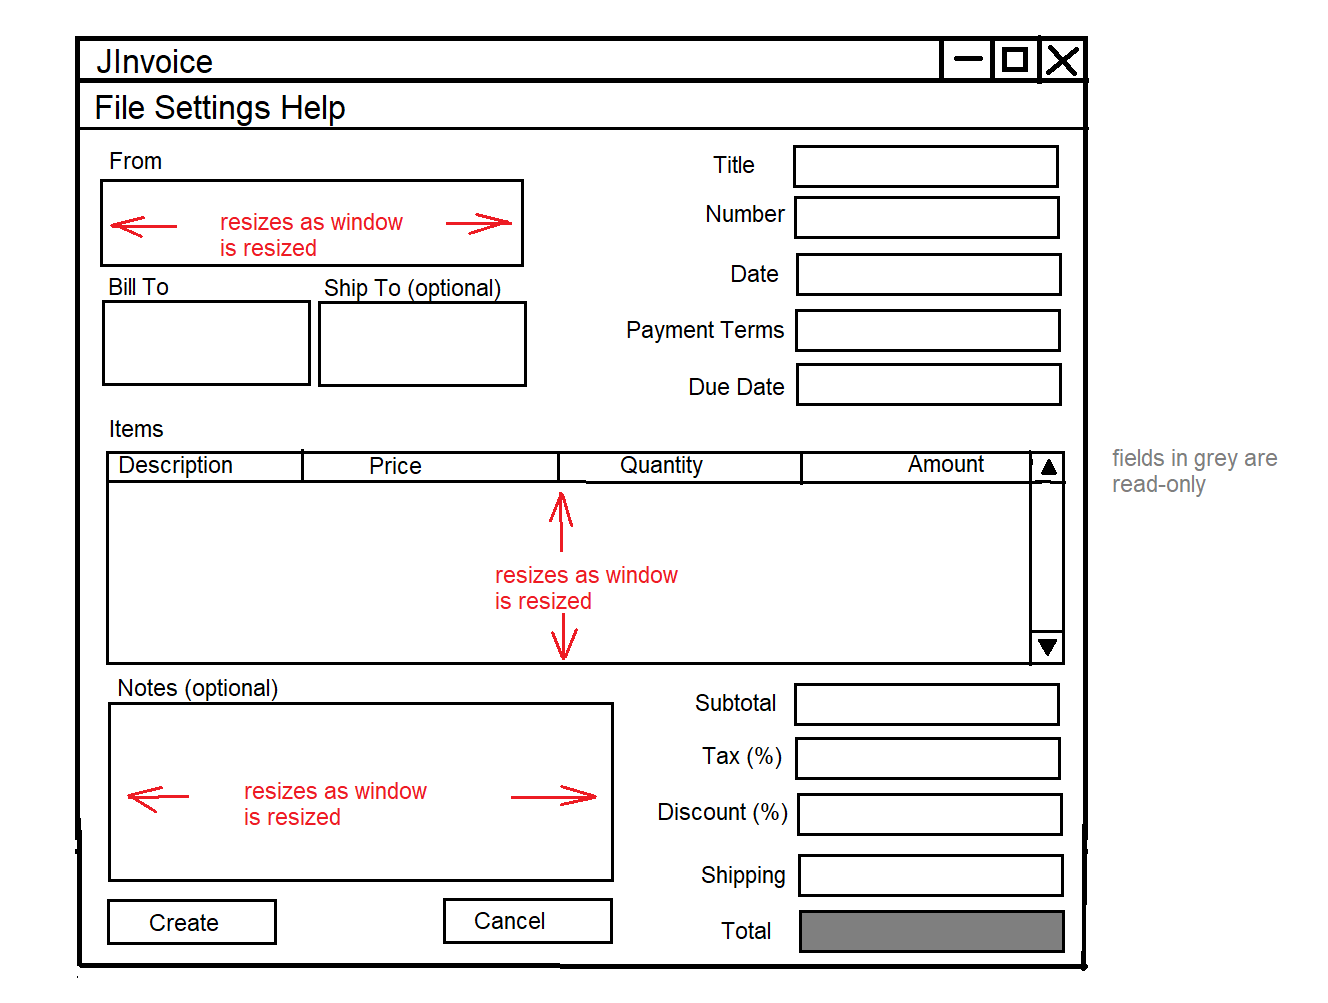
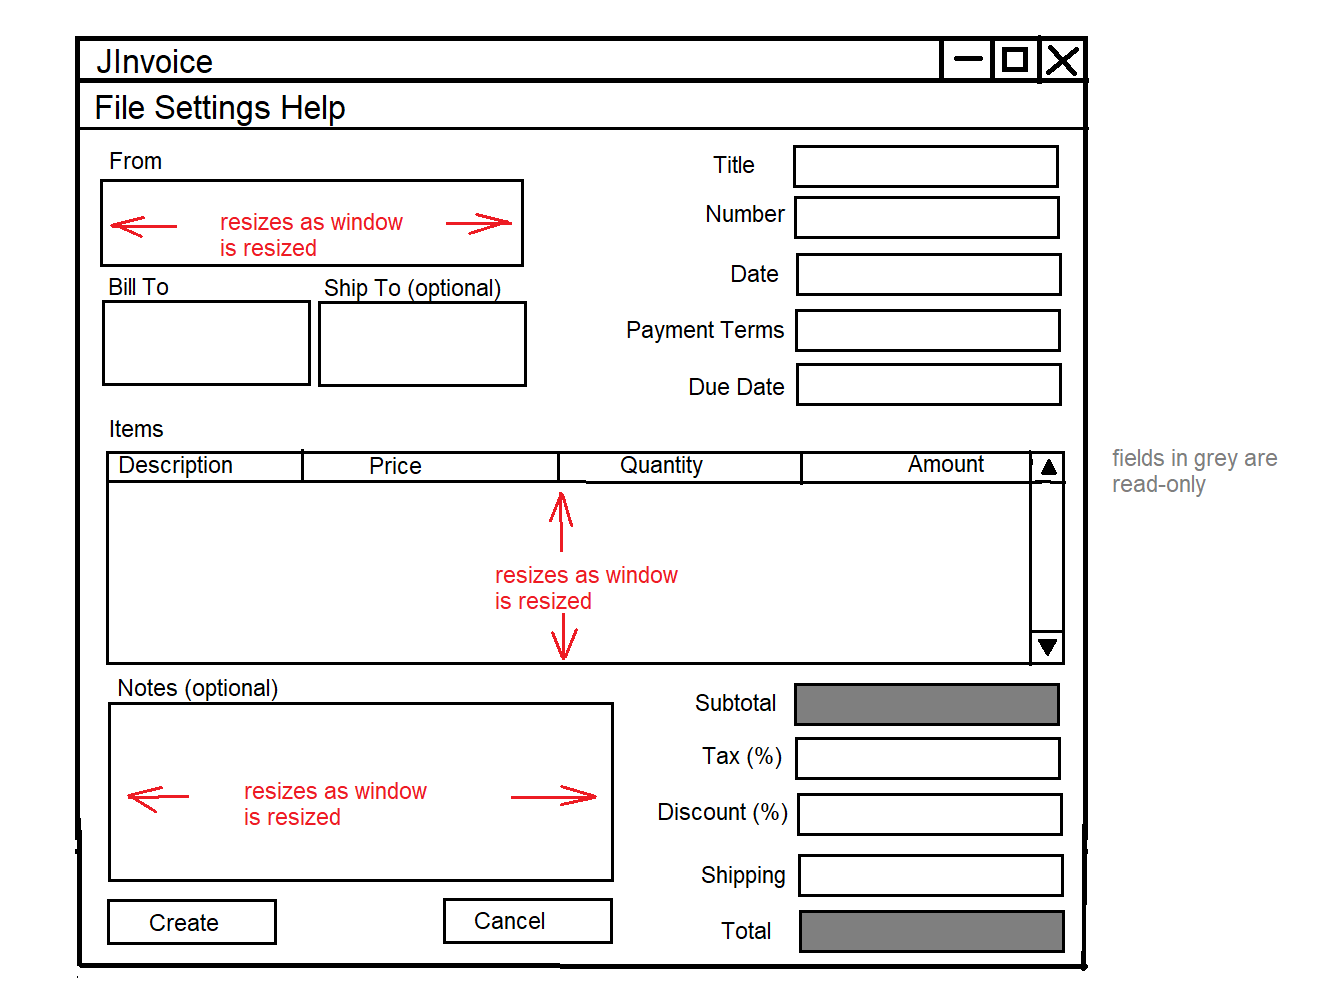
complete first pass at main window layout

Changed region(s): [[0.5866, 0.68, 0.8027, 0.7418]]

diff --git a/src/src/main/java/com/jinvoice/view/MainWindow.java b/src/src/main/java/com/jinvoice/view/MainWindow.java
@@ -17,12 +17,12 @@ public class MainWindow extends JFrame
 	private final JMenuItem _fileExitMenuItem = new JMenuItem("Exit");
 	private final JMenu _helpMenu = new JMenu("Help");
 	private final JMenuItem _helpAboutMenuItem = new JMenuItem("About");
+
+	private final NorthPanel _northPanel = new NorthPanel();
 	
-	private final ToPanel _toPanel = new ToPanel();
-	private final DetailsPanel _detailsPanel = new DetailsPanel();
 	private final ItemsTablePanel _itemsTablePanel = new ItemsTablePanel();
-	private final TotalsPanel _totalsPanel = new TotalsPanel();
-	private final NotesAndButtonsPanel _notesAndButtonsPanel = new NotesAndButtonsPanel();
+
+	private final SouthPanel _southPanel = new SouthPanel(this._itemsTablePanel.getButtonSize());
 	
 	/*
 	 * Constructor.
@@ -44,74 +44,130 @@ public class MainWindow extends JFrame
 		{
 			JOptionPane.showMessageDialog(this, "Simple invoice generator. Creates invoices in Excel format. \n\n" + this.buildAttributionText(attributions), "About " + title, JOptionPane.INFORMATION_MESSAGE);
 		}));
-		
-		this._mainPanel.setLayout(new GridBagLayout());
+
+		this._mainPanel.setLayout(new BorderLayout());
 		
 		// add components
-		
-		GridBagConstraints c1 = new GridBagConstraints();
-		c1.fill = GridBagConstraints.BOTH;
-		c1.gridx = 0;
-		c1.gridy = 0;
-		c1.gridwidth = 2;
-		c1.gridheight = 1;
-		c1.weightx = 1; 
-		c1.weighty = 1; 
-		c1.insets = new Insets(2,2,2,2);
-		this._mainPanel.add(this._toPanel, c1);
-		
-		GridBagConstraints c2 = new GridBagConstraints();
-		c2.fill = GridBagConstraints.BOTH;
-		c2.gridx = 2;
-		c2.gridy = 0;
-		c1.gridwidth = 1;
-		c1.gridheight = 1;
-		c2.weightx = 0.5; 
-		c2.weighty = 0; 
-		c2.insets = new Insets(2,2,2,2);
-		this._mainPanel.add(this._detailsPanel, c2);
-		
-		GridBagConstraints c3 = new GridBagConstraints();
-		c3.fill = GridBagConstraints.BOTH;
-		c3.gridx = 0;
-		c3.gridy = 1;
-		c3.gridwidth = 3;
-		c3.gridheight = 1;
-		c2.weightx = 0; 
-		c2.weighty = 1; 
-		c2.insets = new Insets(2,2,2,2);
-		this._mainPanel.add(this._itemsTablePanel, c3);
-		
-		GridBagConstraints c4 = new GridBagConstraints();
-		c4.fill = GridBagConstraints.BOTH;
-		c4.gridx = 0;
-		c4.gridy = 2;
-		c4.gridwidth = 2;
-		c4.gridheight = 1;
-		c4.weightx = 0; 
-		c4.weighty = 1; 
-		c4.insets = new Insets(2,2,2,2);
-		this._mainPanel.add(this._notesAndButtonsPanel, c4);
-		
-		GridBagConstraints c5 = new GridBagConstraints();
-		c5.fill = GridBagConstraints.BOTH;
-		c5.gridx = 2;
-		c5.gridy = 2;
-		c5.gridwidth = 1;
-		c5.gridheight = 1;
-		c5.weightx = 0.5; 
-		c5.weighty = 0; 
-		c5.insets = new Insets(2,2,2,2);
-		this._mainPanel.add(this._totalsPanel, c5);
-		
+		this._mainPanel.add(this._northPanel, BorderLayout.NORTH);
+		this._mainPanel.add(this._itemsTablePanel, BorderLayout.CENTER);
+		this._mainPanel.add(this._southPanel, BorderLayout.SOUTH);
+
 		this.add(this._mainPanel);
 	}//ctor
 	
+	class NorthPanel extends JPanel
+	{
+		private final ToPanel _toPanel = new ToPanel();
+		private final DetailsPanel _detailsPanel = new DetailsPanel();
+		
+		public NorthPanel()
+		{
+			this.setLayout(new GridBagLayout());
+			
+			GridBagConstraints c1 = new GridBagConstraints();
+			c1.fill = GridBagConstraints.BOTH;
+			c1.gridx = 0;
+			c1.gridy = 0;
+			c1.gridwidth = 2;
+			c1.gridheight = 1;
+			c1.weightx = 1; 
+			c1.weighty = 1; 
+			c1.insets = new Insets(2,2,2,2);
+			this.add(this._toPanel, c1);
+			
+			GridBagConstraints c2 = new GridBagConstraints();
+			c2.fill = GridBagConstraints.BOTH;
+			c2.gridx = 2;
+			c2.gridy = 0;
+			c2.gridwidth = 2;
+			c2.gridheight = 1;
+			c2.weightx = 0.5; 
+			c2.weighty = 0; 
+			c2.insets = new Insets(2,2,2,2);
+			this.add(this._detailsPanel, c2);
+		}
+	}
+	
+	class SouthPanel extends JPanel
+	{
+		private final TotalsPanel _totalsPanel = new TotalsPanel();
+		private final NotesAndButtonsPanel _notesAndButtonsPanel;
+		
+		public SouthPanel(Dimension btnDim)
+		{
+			this.setLayout(new GridBagLayout());
+			
+			this._notesAndButtonsPanel = new NotesAndButtonsPanel(btnDim);
+			
+			GridBagConstraints c1 = new GridBagConstraints();
+			c1.fill = GridBagConstraints.BOTH;
+			c1.gridx = 0;
+			c1.gridy = 0;
+			c1.gridwidth = 2;
+			c1.gridheight = 1;
+			c1.weightx = 1; 
+			c1.weighty = 1; 
+			c1.insets = new Insets(2,2,2,2);
+			this.add(this._notesAndButtonsPanel, c1);
+			
+			GridBagConstraints c2 = new GridBagConstraints();
+			c2.fill = GridBagConstraints.BOTH;
+			c2.gridx = 2;
+			c2.gridy = 0;
+			c2.gridwidth = 2;
+			c2.gridheight = 1;
+			c2.weightx = 0.5; 
+			c2.weighty = 0; 
+			c2.insets = new Insets(2,2,2,2);
+			this.add(this._totalsPanel, c2);
+		}
+	}
+	
 	class ToPanel extends JPanel
 	{
+		private JTextField _fromField = new JTextField();
+		private JTextField _billToField = new JTextField();
+		private JTextField _shipToField = new JTextField();
+		
 		public ToPanel()
 		{
-			this.setBackground(Color.RED);
+			this.setLayout(new GridBagLayout());
+			
+			this._fromField.setBorder(BorderFactory.createTitledBorder("From"));
+			GridBagConstraints c1 = new GridBagConstraints();
+			c1.fill = GridBagConstraints.BOTH;
+			c1.gridx = 0;
+			c1.gridy = 0;
+			c1.gridwidth = 2;
+			c1.gridheight = 1;
+			c1.weightx = 1; 
+			c1.weighty = 1; 
+			c1.insets = new Insets(2,2,2,2);
+			this.add(this._fromField, c1);
+			
+			this._billToField.setBorder(BorderFactory.createTitledBorder("Bill To"));
+			GridBagConstraints c2 = new GridBagConstraints();
+			c2.fill = GridBagConstraints.BOTH;
+			c2.gridx = 0;
+			c2.gridy = 1;
+			c2.gridwidth = 1;
+			c2.gridheight = 1;
+			c2.weightx = 1; 
+			c2.weighty = 1; 
+			c2.insets = new Insets(2,2,2,2);
+			this.add(this._billToField, c2);
+			
+			this._shipToField.setBorder(BorderFactory.createTitledBorder("Ship To (optional)"));
+			GridBagConstraints c3 = new GridBagConstraints();
+			c3.fill = GridBagConstraints.BOTH;
+			c3.gridx = 1;
+			c3.gridy = 1;
+			c3.gridwidth = 1;
+			c3.gridheight = 1;
+			c3.weightx = 1; 
+			c3.weighty = 1; 
+			c3.insets = new Insets(2,2,2,2);
+			this.add(this._shipToField, c3);
 		}
 	}
 	
@@ -156,8 +212,12 @@ public class MainWindow extends JFrame
 				int gridx, int gridy)
 		{
 			GridBagConstraints c = new GridBagConstraints();
+			/*
 			c.weightx = 1;
 			c.weighty = 1;
+			*/
+			c.weightx = 0.5;
+			c.weighty = 0;
 			c.fill = GridBagConstraints.BOTH;
 			c.insets = new Insets(2,2,2,2);
 			c.gridx = gridx;
@@ -180,9 +240,12 @@ public class MainWindow extends JFrame
 						"Amount"
 				};
 		
+		private final ButtonsPanel _btnsPanel = new ButtonsPanel();
+		
 		public ItemsTablePanel()
 		{
-			this.setLayout(new GridLayout());
+			this.setLayout(new BorderLayout());
+			
 			DefaultTableModel tableModel = new DefaultTableModel()
 			{
 				@Override
@@ -200,7 +263,35 @@ public class MainWindow extends JFrame
 			this._scrollPane = new JScrollPane(this._table);
 			this._scrollPane.setViewportView(this._table);
 			this._scrollPane.setBorder(BorderFactory.createTitledBorder("Items"));
-			this.add(this._scrollPane);
+			this.add(this._scrollPane, BorderLayout.CENTER);
+			
+			this.add(this._btnsPanel, BorderLayout.SOUTH);
+		}
+		
+		public Dimension getButtonSize()
+		{
+			return this._btnsPanel.getButtonSize();
+		}
+		
+		class ButtonsPanel extends JPanel
+		{
+			private final JButton _addBtn = new JButton("Add");
+			private final JButton _removeBtn = new JButton("Remove Selected");
+			
+			public ButtonsPanel()
+			{
+				this.setLayout(new FlowLayout());
+				
+				this._addBtn.setPreferredSize(getButtonSize());
+				
+				this.add(this._addBtn);
+				this.add(this._removeBtn);
+			}
+			
+			public Dimension getButtonSize()
+			{
+				return this._removeBtn.getPreferredSize();
+			}
 		}
 	}
 	
@@ -225,8 +316,12 @@ public class MainWindow extends JFrame
 		{
 			this.setLayout(new GridBagLayout());
 			
+			Font totalFont = new Font("SansSerif", Font.BOLD, 20);
+			
 			addComponent(this._subtotalLbl, 0, 0);
+			this._subtotalField.setPreferredSize(new Dimension(100,50));
 			this._subtotalField.setEditable(false);
+			this._subtotalField.setFont(totalFont);
 			addComponent(this._subtotalField, 1, 0);
 			
 			addComponent(this._taxLbl, 0, 1);
@@ -239,6 +334,7 @@ public class MainWindow extends JFrame
 			addComponent(this._shippingField, 1, 3);
 			
 			addComponent(this._totalLbl, 0, 4);
+			this._totalField.setPreferredSize(new Dimension(100,50));
 			this._totalField.setEditable(false);
 			addComponent(this._totalField, 1, 4);
 		}
@@ -260,9 +356,36 @@ public class MainWindow extends JFrame
 	
 	class NotesAndButtonsPanel extends JPanel
 	{
-		public NotesAndButtonsPanel()
+		private final JTextField _notesField = new JTextField();
+		private final ButtonsPanel _buttonsPanel;
+		
+		public NotesAndButtonsPanel(Dimension btnDim)
 		{
-			this.setBackground(Color.ORANGE);
+			this.setLayout(new BorderLayout());
+			
+			this._buttonsPanel = new ButtonsPanel(btnDim);
+			
+			this._notesField.setPreferredSize(new Dimension(100, 100));
+			this._notesField.setBorder(BorderFactory.createTitledBorder("Notes (optional)"));
+			this.add(this._notesField, BorderLayout.CENTER);
+			
+			this.add(this._buttonsPanel, BorderLayout.SOUTH);
+		}
+		
+		class ButtonsPanel extends JPanel
+		{
+			private final JButton _createButton = new JButton("Create");
+			private final JButton _cancelButton = new JButton("Cancel");
+			
+			public ButtonsPanel(Dimension btnDim)
+			{
+				this.setLayout(new FlowLayout());
+				
+				this._createButton.setPreferredSize(btnDim);
+				this.add(this._createButton);
+				this._cancelButton.setPreferredSize(btnDim);
+				this.add(this._cancelButton);
+			}
 		}
 	}
 	

diff --git a/src/src/main/java/com/jinvoice/Main.java b/src/src/main/java/com/jinvoice/Main.java
@@ -59,7 +59,7 @@ public class Main
 	
 	public static class Configuration
 	{
-		public static final int WINDOW_WIDTH = 500;
+		public static final int WINDOW_WIDTH = 600;
 		public static final int WINDOW_HEIGHT = 500;
 		
 		public static final String APP_NAME = "JInvoice";
